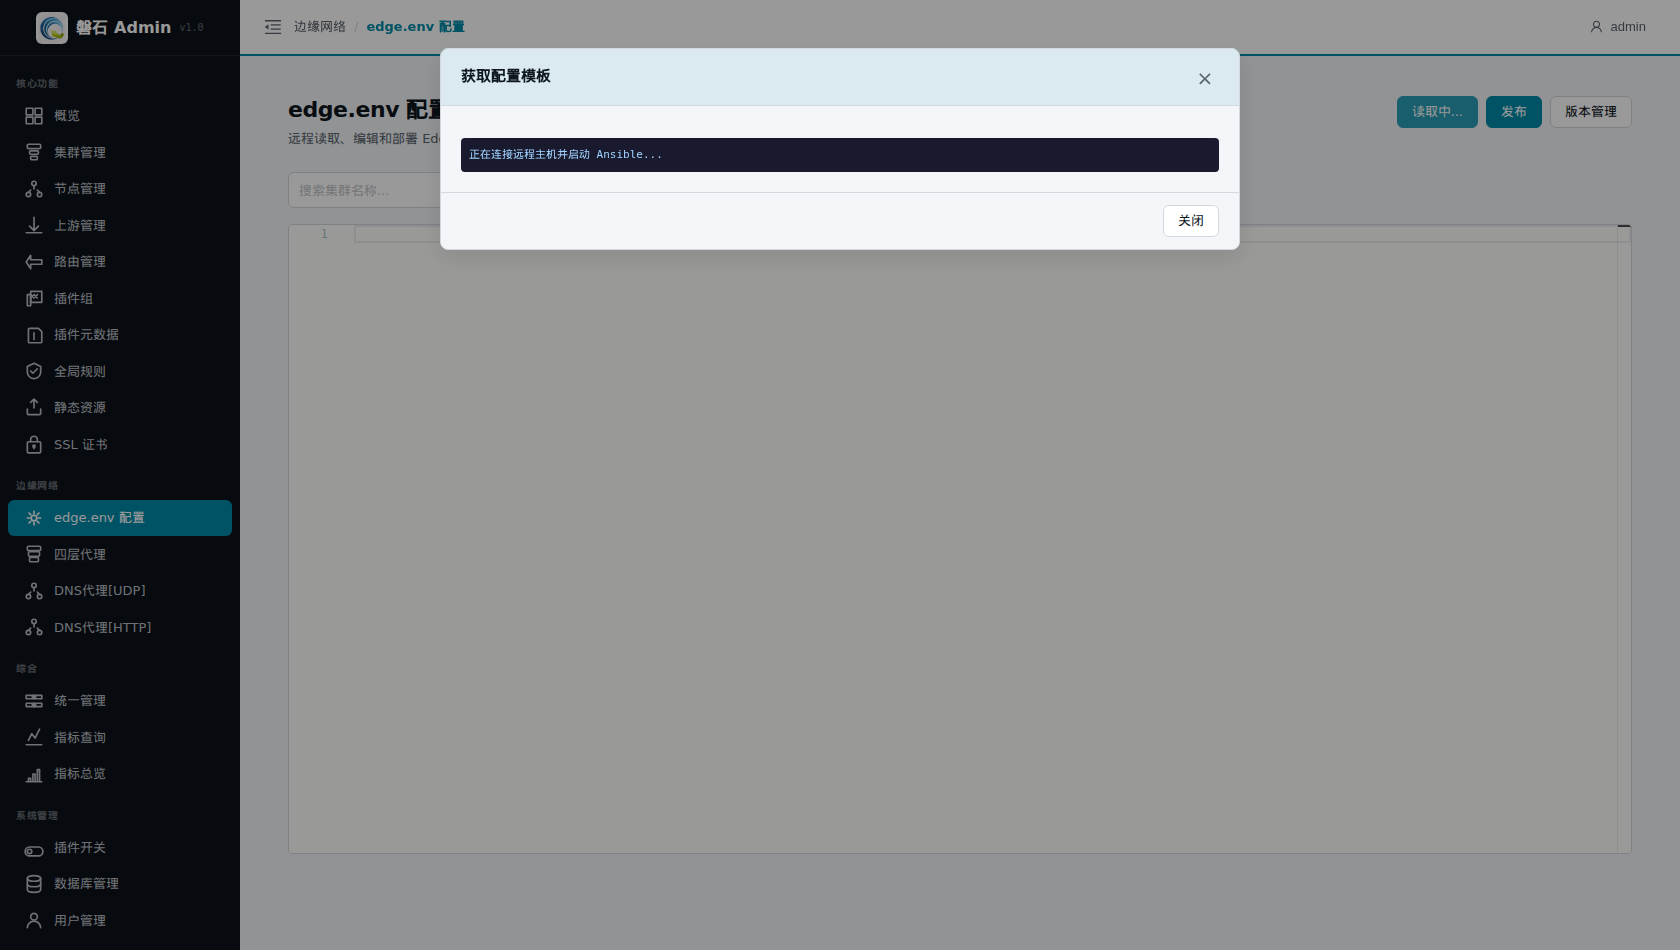
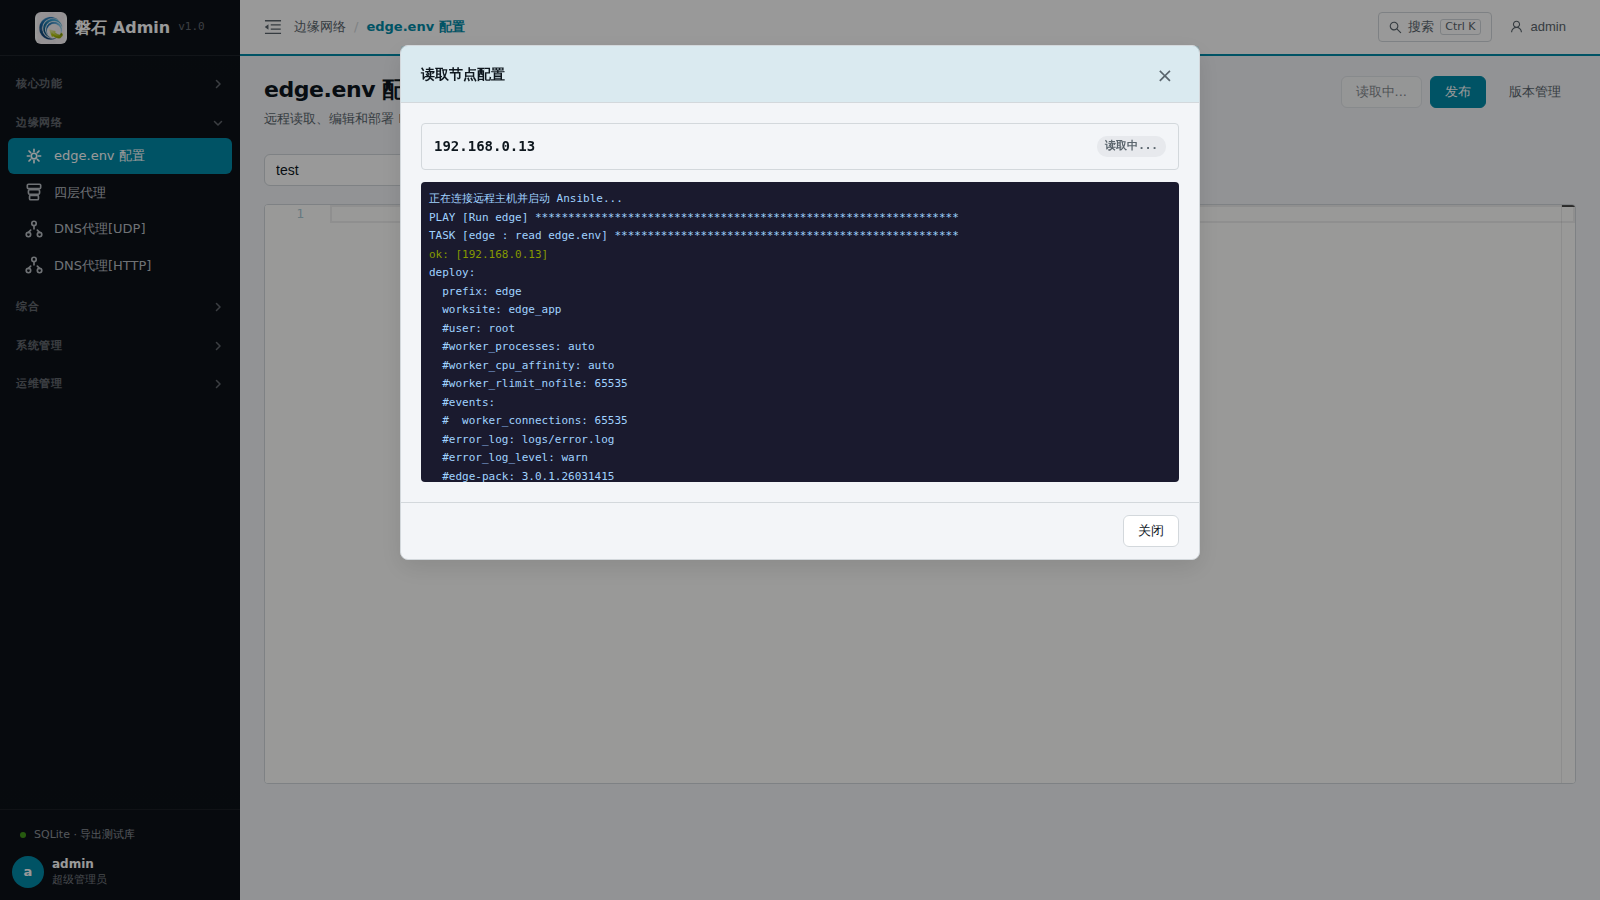
docs(edge-env): 用户手册同步「读取节点配置」新 UI 并重截图 + UX 评审报告
- 手册 04-edge-env 章节按钮名/流程文案对齐批1改动，6 张截图按新 UI 重截
- 新增 docs/refactoring/edge-env-ux-review-2026-10-22.md（21 项发现 + 五类优化建议 + 页面结构示例）

diff --git a/docs/refactoring/edge-env-ux-review-2026-10-22.md b/docs/refactoring/edge-env-ux-review-2026-10-22.md
@@ -1,0 +1,163 @@
+# edge.env 配置模块 UX 评审报告（2026-10-22）
+
+> 评审角色：B 端产品体验设计视角；证据 = 代码走查 + test 集群实机走查 + spec 对照。
+> 范围：`/edge-env` 页面及其后端链路（读取 / 编辑 / 发布 / 版本）。
+> 后续工程化落地：`openspec/changes/edge-env-ux-review-fixes/`（提案已建档，未实施）。
+
+## 0. 评审方式与证据
+
+| 方式 | 内容 |
+|---|---|
+| 代码走查 | `frontend/src/views/EdgeEnv.vue`（885 行）、`frontend/src/api/edgeEnv.ts`、`backend/app/api/v1/cluster_edge_env.py`、`backend/app/utils/yaml_validator.py`、`backend/ansible/roles/edge/tasks/edge_init_env.yml`、`frontend/src/components/VersionManagementModal.vue` |
+| 实机走查 | test 集群（id=4，3 在线节点 + 1 离线，当前 v30，30 条版本记录），Playwright 截图 9 张：空态 / 选中态 / 读取中 / 读取完成 / 编辑态 / diff 弹窗 / 节点选择弹窗 / 版本管理弹窗（`/tmp/opencode/ee-review/shots/`，只读操作未发布） |
+| spec 对照 | `openspec/specs/edge-env-remote-editing/spec.md`，发现 5 处 spec–实现分歧（S1–S5） |
+
+## 1. 主要问题清单（按严重度）
+
+### P0 —— 反馈自相矛盾 / 结果语义失真
+
+**P0-1 整体失败也弹「发布完成」绿色成功 toast**
+`EdgeEnv.vue` `executePublish` 的 complete 分支（:677-682）无条件 `message.success('发布完成')`，不区分 `publishResult.status`（all_success / partial / all_failed）。全部失败时用户同时看到绿色「发布完成」+ 红色节点失败卡片，反馈自相矛盾。同分支还无条件把 `savedContent` 更新为编辑内容——失败发布的内容成为后续 diff 的「基线」，污染下一次变更对比。
+
+**P0-2 全部失败的部署也创建版本记录并推进「当前版本」**
+后端 `deploy_stream`（`cluster_edge_env.py` :166-175）计算 `overall_status` 后**无条件** `create_config_version` 并在 complete 事件携带新版本号——`all_failed` 时同样建版本。版本列表的「v30 当前」徽章语义因此失真：它只表示「最近一次发布动作产生的版本记录」，可能根本没有任何节点在运行该内容。用户据「当前版本」判断线上状态会被误导。
+
+**P0-3 假成功窗口：init/reload 失败仍报「成功」**
+`edge_init_env.yml`：`bin/edge init` 步骤（:21-33）`failed_when: false`，`bin/edge reload` 步骤（:35-46）`failed_when: false + ignore_errors: true`——两步无论退出码如何都不产生 ansible 失败，playbook rc 恒 0。平台侧节点成功判定只看 rc==0（+ no-hosts-matched 守卫），于是 `edge init` 崩溃、reload 失败的节点照样显示绿色「成功」。与项目 #21「rc=0 ≠ 执行成功」教训同源，是发布链路残留的假成功窗口（备份/写入两步真实失败可以被发现，init/reload 不能）。
+
+### P1 —— 流程 / 安全 / 一致性
+
+**P1-1 未保存内容保护双标，且缺刷新守卫**
+切换**节点**且有未发布修改 → 有确认弹窗（:468-479）；切换**集群** → `onClusterChange`（:456-466）静默清空编辑内容，无任何提示。全页无 `beforeunload` / 路由离开守卫——刷新或跳走直接丢内容。spec「编辑提示与确认」明确要求刷新/切换集群提示（S3 分歧）。
+
+**P1-2 发布进度弹窗可随时关闭且无再入口**
+`closePublishProgress`（:706-710）仅隐藏弹窗，SSE 流继续后台执行：进度无法回看、结果汇总错过即丢、无法取消。对照读取弹窗——关闭即 abort（:532-538）。同为「关闭」按钮，一个=中止、一个=放后台，语义双标；用户很可能以为关闭=取消发布。
+
+**P1-3 节点选择弹窗离线节点可选**
+spec 要求「非活跃节点置灰不可选」，实际 `.publish-node-item.disabled` 样式类存在但从未绑定，`togglePublishNode` 不检查 status（:625-629），「全选」也把离线节点一并选中（:631-633）。发布到离线节点必失败，白白多一轮 ansible 失败日志（S2 分歧）。
+
+**P1-4 节点选择弹窗开屏红字报错**
+弹窗打开时 `selectedPublishNodeIds` 为空（默认全不选，:616），红色「请至少选择一个节点」立即显示——与 SSL 评审 P0「开屏误报」同族：把「尚未操作」当「操作错误」呈现（截图 07）。spec 写的是「默认全选」（S1 分歧）。
+
+**P1-5 diff 呈现不可用**
+`computeDiff`（:563-592）按行号位置逐行对比（非 LCS）：中间插入一行，其后**所有行**都被误报为「修改」；同时全文件每行都渲染（无上下文折叠），100+ 行文件里找真实变更要肉眼滚动。无「+N −M」变更摘要、无跳转变更块。实测（文末追加一行注释）diff 弹窗展示整份 108 行内容，变更行在最底部，首屏零高亮（截图 06）。
+
+**P1-6 diff 基线语义不明且有误导**
+对比基线是「最近一次读取的内容」（`savedContent`），界面上没有任何说明；从未读取、直接手输内容时基线为空串 → diff 弹窗显示全文绿色「新增」。基线既不是「最近发布版本」也不是「目标节点现行内容」（多节点时各节点内容可能本就不一致），用户无从判断「这次发布到底改了什么」。
+
+**P1-7 部署失败错误文案质量双标**
+读取流对常见失败做了友好转译（UNREACHABLE → 「无法连接，请检查网络和 SSH 配置」等，`cluster_edge_env.py` :274-283），部署流却只有裸值 `ansible rc=-1`（:159-160）——同一机制两处处理不一致，失败排障成本不对称。
+
+### P2 —— 易用性 / 文案 / 层级 / 状态
+
+**P2-1 「获取配置模板」名不副实**：实际行为是「读取所选节点**当前**的 edge.env」，不是模板（模板暗示预置样例）。页头主按钮、弹窗标题、日志文案全套沿用该误导命名。
+**P2-2 双主色按钮 + 动线割裂**：页头右上「获取配置模板」「发布」两个 `btn-primary` 并列，视觉层级竞争；而上下文选择器（搜索/分组/集群/节点）在工具栏左侧，主流程「选集群→选节点→读取→编辑→发布」横跨页面两角。
+**P2-3 编辑器空态提示伪装成内容**：悬浮提示绝对定位在 Monaco 行号槽内（`.ee-empty-hint` top:14px left:64px，:727-734），看起来就像第 1 行文件内容（截图 02）；且集群/节点已选后文案仍是「选择集群与节点后点击…」的过时指引。
+**P2-4 无 dirty 标记、无内容来源标识**：编辑器不显示「有未发布修改」，也不显示「内容来自哪个节点、何时读取」。多节点配置可能不一致，页面无任何提示，用户易把 A 节点内容当作全集群现状。
+**P2-5 读取完成反馈弱**：内容已填入编辑器但弹窗不自动关、无「已载入编辑器」状态行，唯一线索是日志区一行 ✅（截图 04）；读取中点「关闭」= 中止，按钮语义未说明。
+**P2-6 空态无行动指引**：「请先选择一个集群」一行灰字（截图 01），无下拉引导/CTA；「当前集群无节点」态同样只有一句陈述。
+**P2-7 读取来源不醒目**：选中集群后静默自动选中第一个节点，节点下拉仅显示 `IP:管理端口`（无名称/备注），「当前内容来自哪台机器」不在视觉焦点内。
+**P2-8 版本记录无操作者**：版本列表恒显示「由 system 发布」——`ConfigVersion` 不记录操作人（`edge_sync._create_config_version` 无 created_by），追溯只能绕道审计日志。
+**P2-9 失败重试成本高**：部分失败后要重新走「发布→diff→勾选节点」全流程，没有「重试失败节点」快捷入口。
+**P2-10 校验错误不定位**：YAML 语法错误有行号、缺字段有字段路径，但都只在 alert 弹窗文本里，不跳转编辑器对应行，用户需自行查找。
+**P2-11 URL 不同步**：手动切换集群不更新 `?cluster_id=`（spec 要求跳转同步，S4 分歧），刷新后选择丢失。
+
+### spec–实现分歧（S1–S5，随本变更修正）
+
+| # | spec 说 | 实际 | 处置 |
+|---|---|---|---|
+| S1 | 发布节点「默认全选」 | 默认全不选 + 开屏红字 | 以「默认全选在线节点」实现，修 spec |
+| S2 | 离线节点「置灰不可选」 | 可选 | 补禁选，修 spec |
+| S3 | 刷新/切换集群有离开提示 | 仅切换节点有确认 | 补齐实现 |
+| S4 | 选集群后「自动跳转 ?cluster_id=」 | 不更新 URL | 补 URL 同步，修 spec |
+| S5 | SSE 事件 `{node,step,status,message}` + backup/write/init/reload 步骤卡片 | `{type,node_start/node_done/complete,ip,route}` + ansible 原始行 | spec 陈旧，按实现重写该场景（#45 同类分歧） |
+
+## 2. 信息架构优化建议
+
+现状三层割裂：① 页头右上操作区（读取/发布/版本）② 工具栏左侧上下文区（搜索/分组/集群/节点）③ 编辑器主体。主流程动线横跨两角。
+
+建议收敛为「**一条上下文栏 + 一个编辑区 + 一条状态条**」：
+
+```
+PageHeader（标题 + 描述）
+──────────────────────────────────────────────────────────────
+[集群▼ showSearch] [节点▼]      [读取节点配置] [发布●] [版本管理]
+──────────────────────────────────────────────────────────────
+ 状态条：内容来自 192.168.0.13 · 读取于 10-22 09:55 ｜ ● 未发布修改 ｜ diff 基线：该节点当前配置
+──────────────────────────────────────────────────────────────
+ Monaco YAML 编辑器
+```
+
+- 集群搜索与分组过滤收进集群下拉（`a-select showSearch` 或分组 optgroup），工具栏从 4 控件减为 2。
+- 操作按钮与上下文选择同栏，读取（secondary）→ 发布（primary 唯一主色）→ 版本管理（ghost），按流程顺序排列。
+- 编辑器与操作之间加**状态条**，承载来源、dirty、diff 基线三信息（详见 §6）。
+
+## 3. 关键模块布局建议
+
+| 模块 | 现状 | 建议 |
+|---|---|---|
+| 读取弹窗 | 全屏遮罩弹窗 + ansible 原始日志 + 手动关闭 | 保留流式日志（排障价值），成功后自动关闭 + toast「已载入 {ip} 的当前配置」；失败时保留弹窗供看日志，关闭=中止在按钮 title 说明 |
+| diff 确认弹窗 | 全文件平铺灰字，变更行靠滚动寻找 | 头部摘要行「+N −M · 基线：{来源}」；unified 视图仅渲染变更块 ±3 行上下文，块间「⋯ 未变更 N 行 ⋯」折叠条 |
+| 节点选择弹窗 | 全不选 + 开屏红字 + 离线可选 | 默认全选在线节点；离线行置灰不可点（保留展示，注明「离线」）；红字仅在点击确认且 0 选中时出现；底部加后果行「将把上述内容写入所选节点并执行 edge init / reload 生效」 |
+| 发布进度弹窗 | 可随时关闭、无再入口、无取消 | 发布进行中禁用关闭（发布不可取消是事实，诚实呈现）；完成后显示汇总条 + 「重试失败节点」（预填失败节点集）；失败节点错误文案与读取流同款转译 |
+| 版本管理弹窗 | 左列表右详情 + 对比模式（已较好） | 「当前」徽章补 tooltip 语义说明；列表补操作者（暂缓，见 D10） |
+
+## 4. 文案优化建议
+
+| 位置 | 现文案 | 建议 | 理由 |
+|---|---|---|---|
+| 页头按钮 / 弹窗标题 | 获取配置模板 | **读取节点配置** | 行为是读取当前配置，非模板 |
+| 完成 toast | 发布完成（无条件） | 全部成功→「发布完成」；部分→「发布完成，N 个节点失败，请查看失败原因」（warning）；全部失败→「发布失败」（error） | 反馈与结果一致（P0-1） |
+| 节点选择红字 | 请至少选择一个节点（开屏即红） | 移至确认时机；默认全选后基本不出现 | 开屏误报（P1-4） |
+| diff 弹窗标题/按钮 | 确认变更 / 继续选择节点 | 「确认发布内容」/「下一步：选择节点」 | 表达意图而非机制 |
+| 空态 | 请先选择一个集群 | 「在上方选择集群后，可读取与编辑该集群的 edge.env」+ 高亮集群下拉 | 可行动 |
+| 无节点空态 | 当前集群无节点，无法管理 edge.env | 补指引「请先在「集群管理」中为该集群添加节点」 | 可行动 |
+| 部署节点失败 | ansible rc=-1 | 与读取流同款转译（无法连接 / SSH 认证失败 / 不在主机清单 / 保留 rc 兜底） | 错误可行动、两腿一致（P1-7） |
+| 版本「当前」徽章 | 当前 | 「当前」+ tooltip「最近一次发布创建的版本；发布全部失败时不产生新版本」 | 语义澄清（P0-2） |
+
+## 5. 交互流程优化建议
+
+1. **读取**：选节点 → 点「读取节点配置」→ 弹窗流式日志 → 成功**自动关闭** + toast；失败留在弹窗看日志。有未发布修改时先确认丢弃（现状保留）。
+2. **发布**（5 步减为 4 步且每步防错前置）：编辑器点「发布」→ 前端校验（错误带行号，点击跳转编辑器行）→ diff 确认（摘要 + 紧凑 diff）→ 节点选择（默认在线全选、离线禁选）→ 进度（不可关）→ 完成汇总 + 重试失败节点。
+3. **离开保护三面齐**：切节点确认（已有）+ 切集群确认（补）+ beforeunload / 路由守卫（补）。
+4. **发布中断语义诚实化**：发布中弹窗不可关闭；若用户离开页面，SSE 断开后台仍会执行完（后端特性），页面在重新进入时以「集群卡片版本徽章 + 版本管理」承接结果——本轮不在 UI 伪造「已取消」。
+
+## 6. 状态展示优化建议
+
+- **编辑器状态条（新增）**：`内容来自 {ip} · 读取于 {MM-DD HH:mm}`（无读取时「未读取，手动输入」）｜ `● 未发布修改`（dirty 徽章，editorContent !== savedContent 时出现）｜ 发布成功后 dirty 清零。
+- **发布节点卡**：成功/失败/发布中 + 「（经中继）/（直连）」标注保留现状（已是全站一致范式）；失败卡错误文案按 P1-7 转译。
+- **完成汇总条**：全部成功（绿）/ 部分成功（橙，列失败节点）/ 全部失败（红）+ 「成功 N / 失败 M」+「重试失败节点」按钮。
+- **版本列表**：「当前」徽章补语义 tooltip；空状态区分「从未发布」与「筛选无结果」（当前仅后者形态存在）。
+
+## 7. 优化后页面结构示例
+
+```
+┌ PageHeader ──────────────────────────────────────────────────────┐
+│ edge.env 配置                                    [版本管理(ghost)] │
+│ 远程读取、编辑和发布 Edge 网关的 edge.env 配置文件                   │
+├ 上下文栏 ────────────────────────────────────────────────────────┤
+│ 集群 [test ▼ (showSearch, 分组optgroups)]  节点 [192.168.0.13 ▼]  │
+│                          [读取节点配置 (secondary)] [发布 (primary)]│
+├ 状态条（有内容时出现）─────────────────────────────────────────── ┤
+│ ⓘ 内容来自 192.168.0.13 · 读取于 10-22 09:55   ● 未发布修改        │
+├ Monaco YAML 编辑器 ──────────────────────────────────────────────┤
+│                                                                  │
+│   （空态：居中卡片——「选择集群与节点后点击『读取节点配置』，        │
+│     或直接在此输入配置内容」，不再伪装成第 1 行内容）               │
+│                                                                  │
+├ 弹窗流 ──────────────────────────────────────────────────────────┤
+│ 读取：日志流 → 成功自动关 + toast「已载入 {ip} 的当前配置」         │
+│ 发布确认：「+2 −1 · 基线：192.168.0.13 当前配置」                  │
+│           ├ @@ deploy 区块（±3 行上下文）                          │
+│           ├ ⋯ 未变更 96 行 ⋯                                      │
+│           └ @@ 变更块                            [取消][下一步：选择节点]
+│ 节点选择：默认勾选 3 个在线节点；192.168.0.24（离线）置灰           │
+│           底部：将把上述内容写入所选节点并执行 edge init/reload     │
+│ 进度：发布中不可关闭 → 汇总条（全部成功/部分/失败）+ [重试失败节点]   │
+└──────────────────────────────────────────────────────────────────┘
+```
+
+## 8. 后续
+
+- 工程化提案已建档：`openspec/changes/edge-env-ux-review-fixes/`（proposal / design / spec delta / tasks），**未实施**。
+- 4 个待用户拍板的决策点（A 读取成功是否自动关弹窗 / B 失败是否建版本 / C playbook 严格化幅度 / D 版本操作者留痕是否本轮做）见 proposal.md 末尾，均已附推荐值。

diff --git a/docs/user-manual/04-edge-env.md b/docs/user-manual/04-edge-env.md
@@ -58,7 +58,7 @@ ex_stream_plugins:        # 四层（Stream）插件开关
 
 | 按钮 | 作用 |
 | --- | --- |
-| 【获取配置模板】 | 通过 SSH 从所选节点读取当前 edge.env 到下方编辑器 |
+| 【读取节点配置】 | 通过 SSH 从所选节点读取当前 edge.env 到下方编辑器 |
 | 【发布】 | 把编辑器内容推送到勾选的节点（自动生成版本记录，可回滚） |
 | 【版本管理】 | 查看历史版本 / 回滚 |
 
@@ -71,11 +71,11 @@ ex_stream_plugins:        # 四层（Stream）插件开关
 ### 4.3.1 读取当前配置
 
 1. 选择集群「演示集群」，节点 `192.168.0.13:16620`；
-2. 点击【获取配置模板】，平台通过 SSH 连接节点读取文件，弹窗实时显示执行日志：
+2. 点击【读取节点配置】，平台通过 SSH 连接节点读取文件，弹窗实时显示执行日志：
 
    ![读取配置执行日志](images/03-03-edgeenv-read-done.png)
 
-3. 看到 `ok: [192.168.0.13]` 表示读取成功，点击【关闭】，内容已载入下方编辑器：
+3. 看到 `ok: [192.168.0.13]` 表示读取成功——弹窗自动关闭并提示「已载入 … 的当前配置」，内容已载入下方编辑器：
 
    ![编辑器中的 edge.env](images/03-04-edgeenv-editor.png)
 
@@ -176,7 +176,7 @@ ex_stream_plugins:        # 四层（Stream）插件开关
 
 ## 4.4 验证
 
-1. 再次点击【获取配置模板】，确认读回的内容包含 50000、8880，以及 `gmssl: true` 和 `dns_upstream: true`；
+1. 再次点击【读取节点配置】，确认读回的内容包含 50000、8880，以及 `gmssl: true` 和 `dns_upstream: true`；
 2. 在能连通节点的机器上执行：
 
 ```bash
